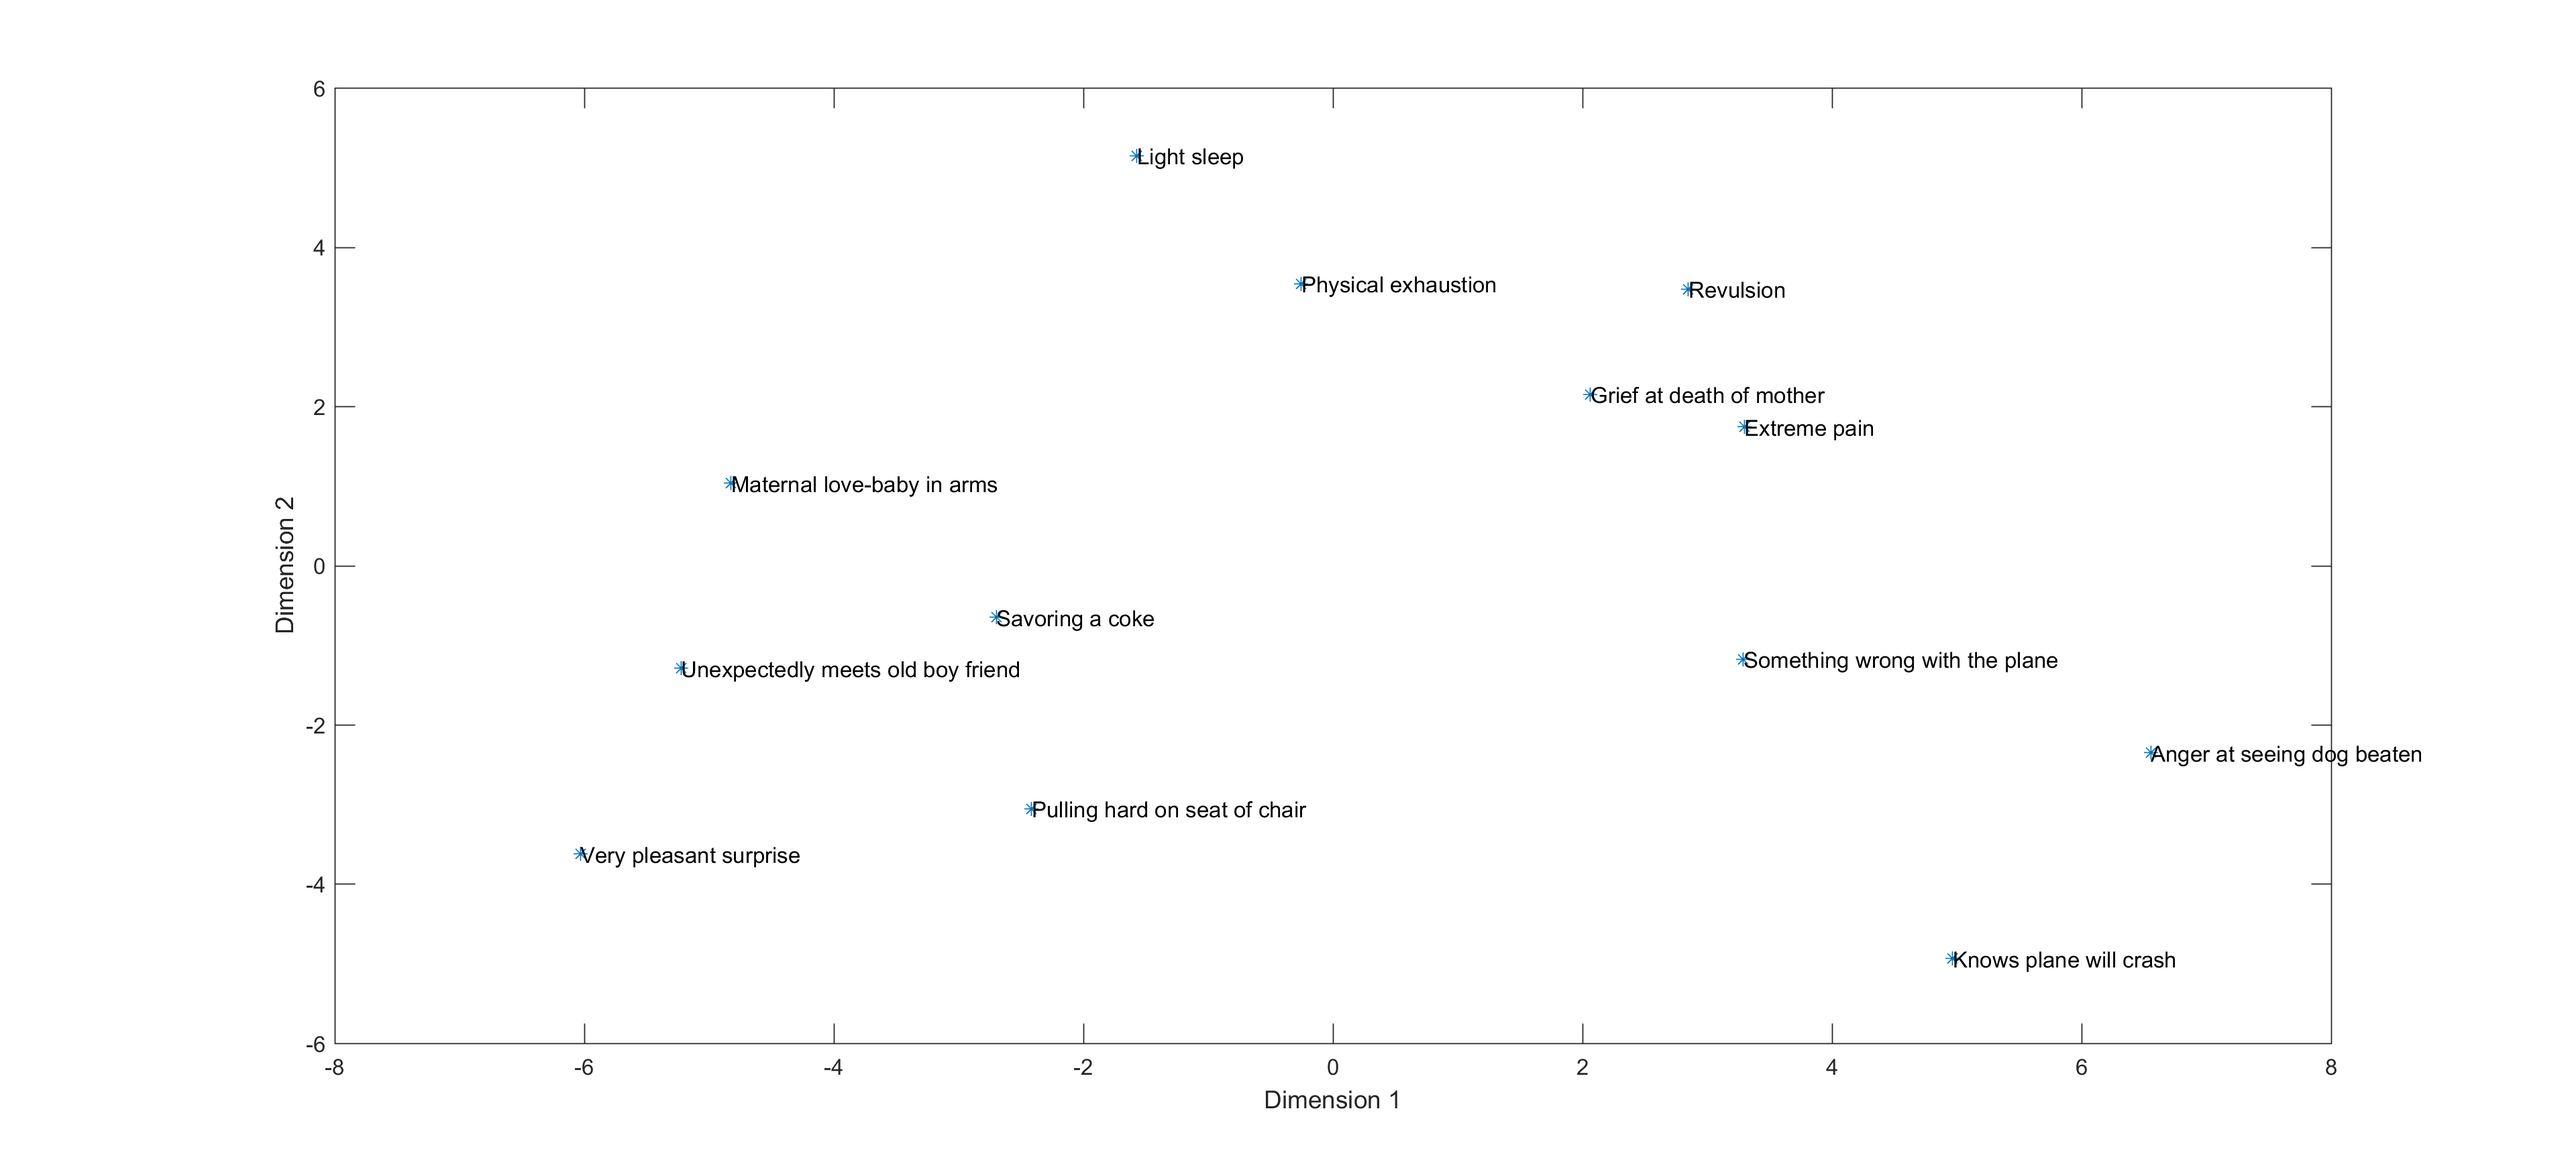
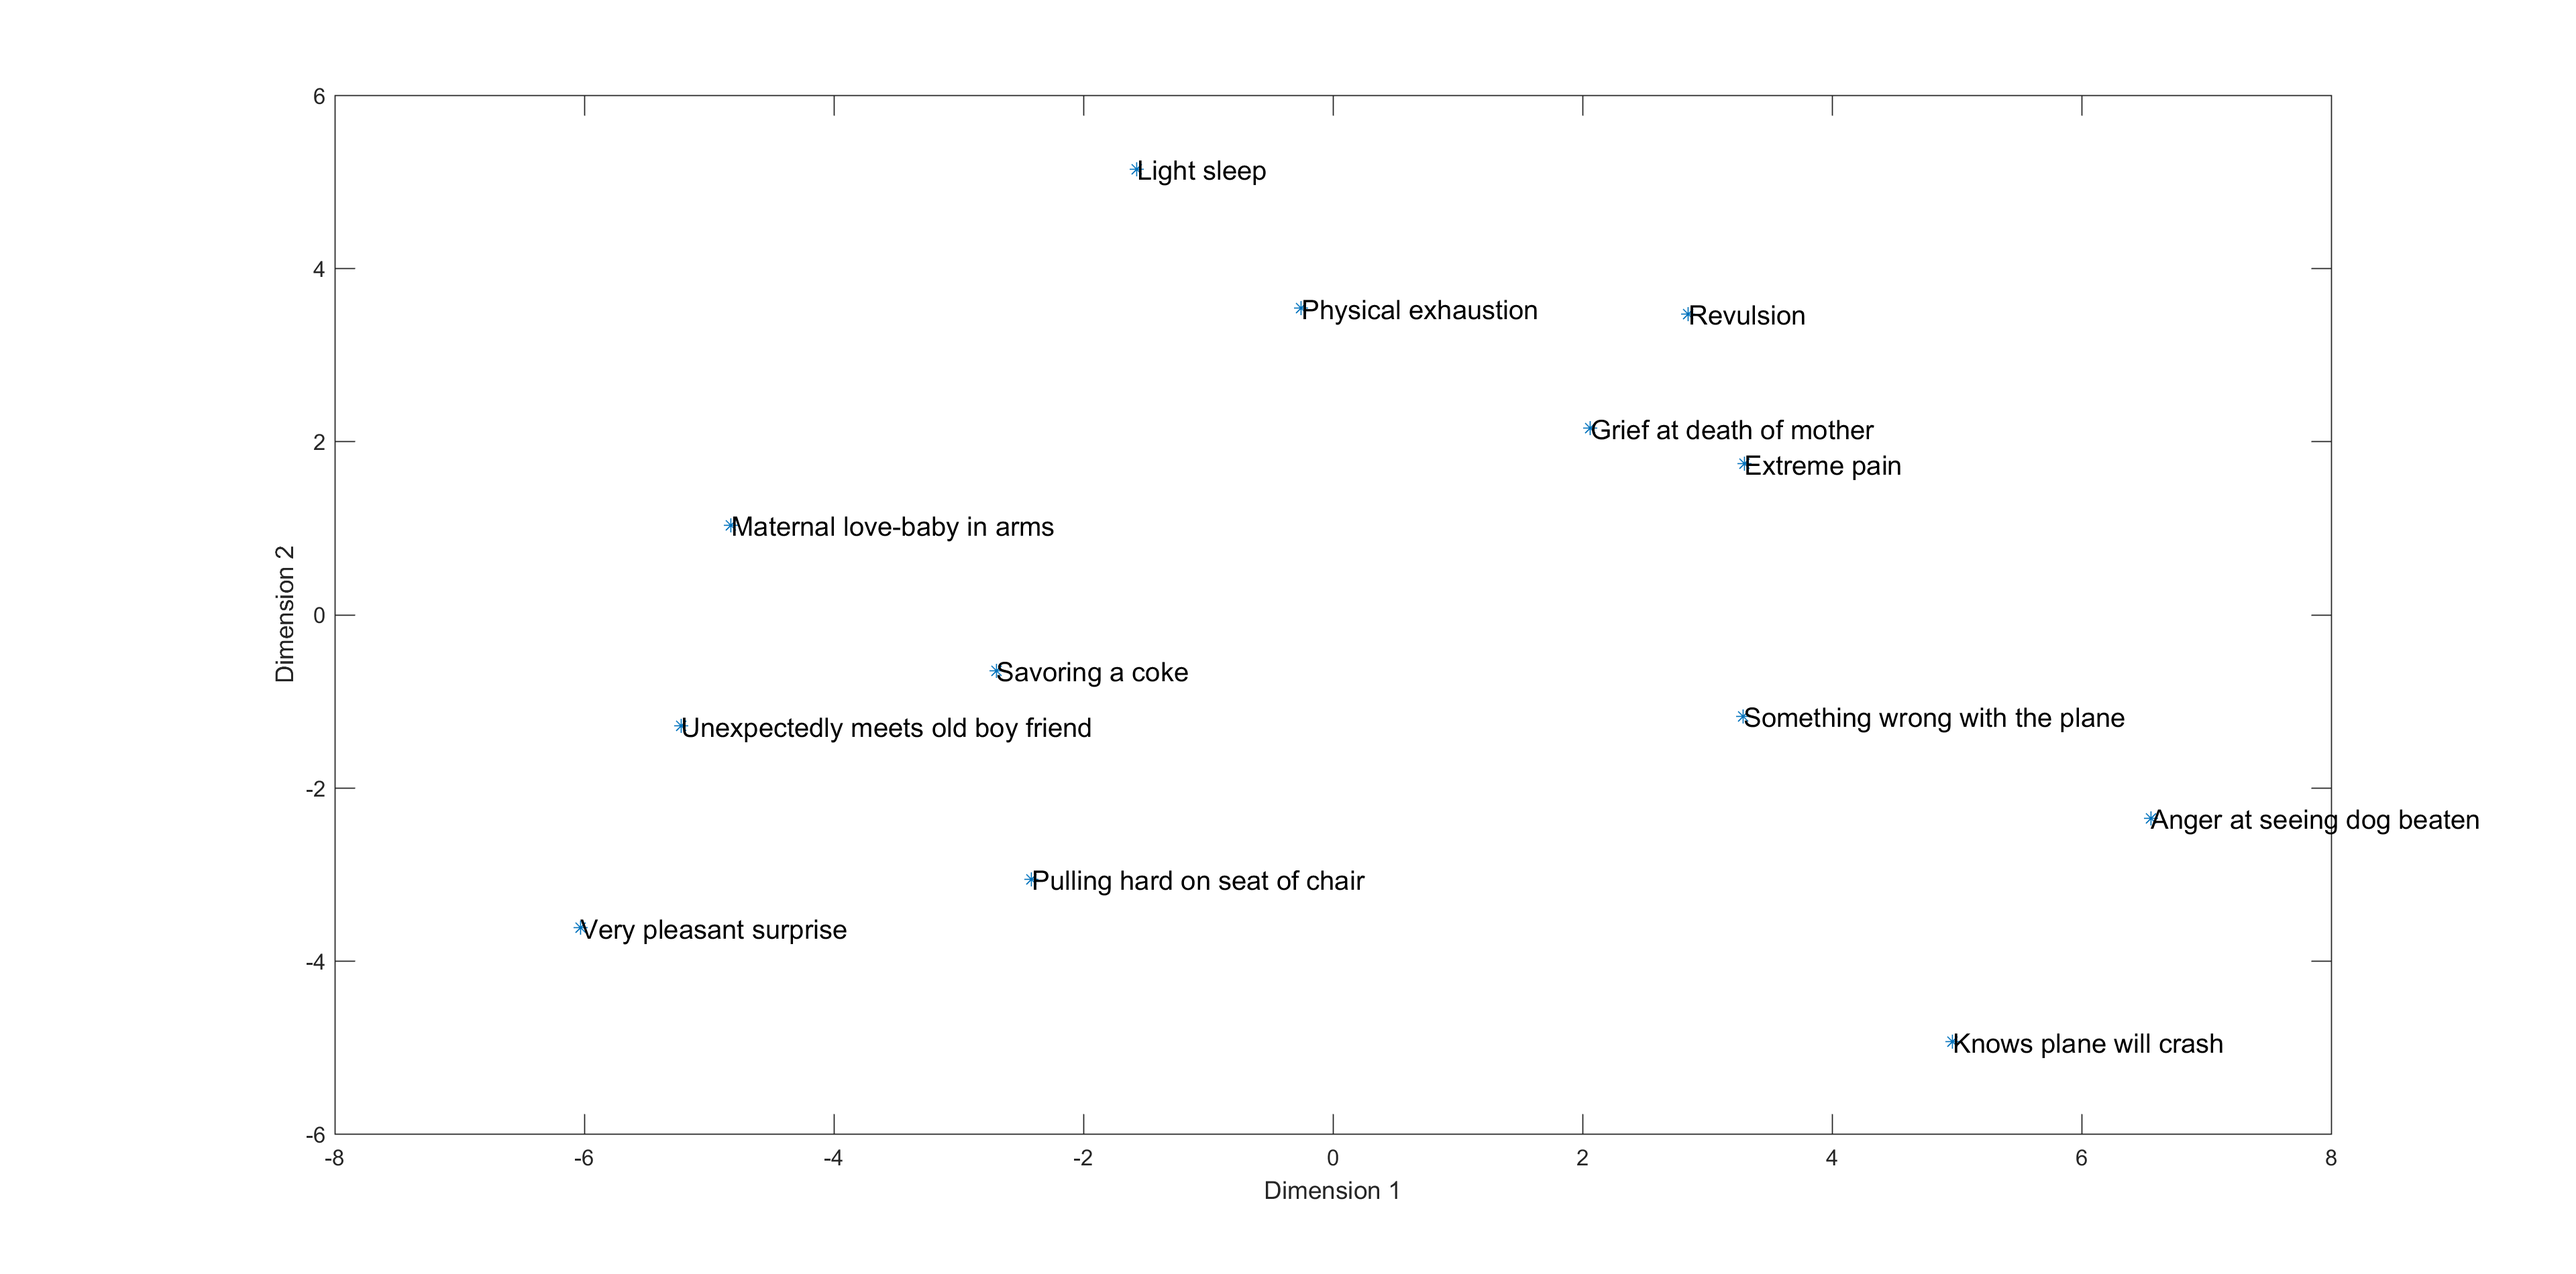
ændret text størrelse

diff --git a/miniprojekt_4/mp4.m b/miniprojekt_4/mp4.m
@@ -51,19 +51,19 @@ facial=[
  [Y,stress2,disparities] = mdscale(dissimilarities,2);
 
 figure = plot(Y2(:,1), Y2(:,2), '*')
-text(Y2(1,1),Y2(1,2) ,'Grief at death of mother')
-text(Y2(2,1),Y2(2,2) ,'Savoring a coke')
-text(Y2(3,1),Y2(3,2) ,'Very pleasant surprise')
-text(Y2(4,1),Y2(4,2) ,'Maternal love-baby in arms')
-text(Y2(5,1),Y2(5,2) ,'Physical exhaustion')
-text(Y2(6,1),Y2(6,2) ,'Something wrong with the plane')
-text(Y2(7,1),Y2(7,2) ,'Anger at seeing dog beaten')
-text(Y2(8,1),Y2(8,2) ,'Pulling hard on seat of chair')
-text(Y2(9,1),Y2(9,2) ,'Unexpectedly meets old boy friend')
-text(Y2(10,1),Y2(10,2) ,'Revulsion')
-text(Y2(11,1),Y2(11,2) ,'Extreme pain')
-text(Y2(12,1),Y2(12,2) ,'Knows plane will crash')
-text(Y2(13,1),Y2(13,2) ,'Light sleep')
+text(Y2(1,1),Y2(1,2) ,'Grief at death of mother', 'FontSize',12)
+text(Y2(2,1),Y2(2,2) ,'Savoring a coke', 'FontSize',12)
+text(Y2(3,1),Y2(3,2) ,'Very pleasant surprise', 'FontSize',12)
+text(Y2(4,1),Y2(4,2) ,'Maternal love-baby in arms', 'FontSize',12)
+text(Y2(5,1),Y2(5,2) ,'Physical exhaustion', 'FontSize',12)
+text(Y2(6,1),Y2(6,2) ,'Something wrong with the plane', 'FontSize',12)
+text(Y2(7,1),Y2(7,2) ,'Anger at seeing dog beaten', 'FontSize',12)
+text(Y2(8,1),Y2(8,2) ,'Pulling hard on seat of chair', 'FontSize',12)
+text(Y2(9,1),Y2(9,2) ,'Unexpectedly meets old boy friend', 'FontSize',12)
+text(Y2(10,1),Y2(10,2) ,'Revulsion', 'FontSize',12)
+text(Y2(11,1),Y2(11,2) ,'Extreme pain', 'FontSize',12)
+text(Y2(12,1),Y2(12,2) ,'Knows plane will crash', 'FontSize',12)
+text(Y2(13,1),Y2(13,2) ,'Light sleep', 'FontSize',12)
 xlabel('Dimension 1')
 ylabel('Dimension 2')
 
